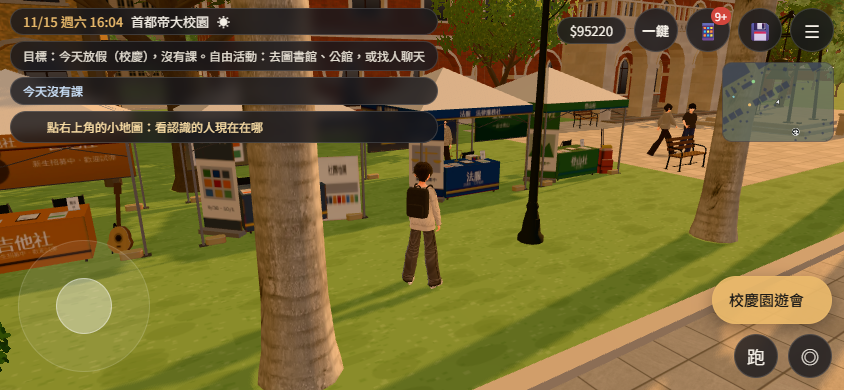
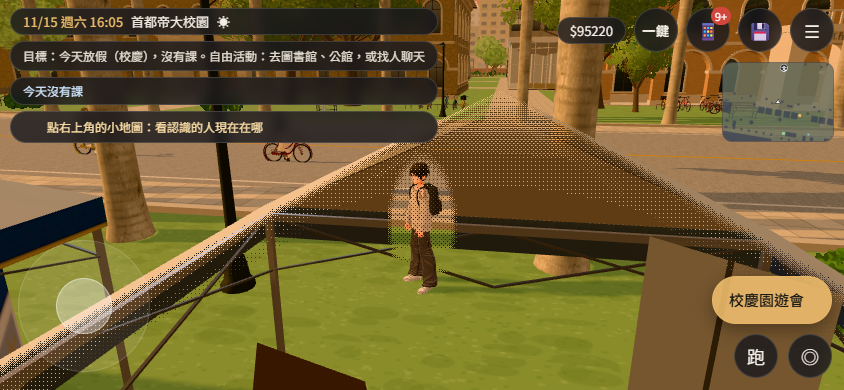
CC-local: X295E_fair_keep_fix result (sha 8d8b475dc3a6b3546853a98fc24b60edb7829989, exit 0, 139s)

diff --git a/docs/story_planning/CC/local_out/summary.md b/docs/story_planning/CC/local_out/summary.md
@@ -3020,3 +3020,5 @@ fatal: 'C:/Users/USER/Documents/wt_cc_R8_rr2' already exists    [ 135.3s] main_p
       err.log (last 5): �t�Χ䤣����w�����|�C | [gpu_wrap 4.1s] WEBGL_RENDERER: ANGLE (AMD, AMD Radeon RX 6600M (0x000073FF) Direct3D11 vs_5_0 ps_5_0, D3D11) | Google Inc. (AMD) | [gpu_wrap 81.8s] page close url=http://127.0.0.1:8800/index.html | [gpu_wrap 81.8s] BROWSER DISCONNECTED
 - 2026-11-10T21:27:38  GLASSDIAG_v2b  sha=be84c86807aa45324daed407996770feb6dbba13  exit=0  144s      [  79.0s]   {"mesh": "by_glass", "parent": "campus_boya", "vis": true, "mat": "ck_glass", "transparent": false, "opacity": 1, "emissiveI": 1, "nightI": 1, "uDay": 0, "hasDivA": true, "skyMin": [-47.05, 0, -74.72], "skyMax": [-28.95, 4.3, -74.52], "geoMin": [-54.85, 0.05, -85.5], "geoMax": [-21.16, 20.6, -74.15], "overlap": 0.002, "overlapXYZ": [18.1, 4.25, 0.2], "worldMin": [-54.85, 0.05, -85.5], "worldMax": [-21.16, 20.6, -74.15], "cacheKey": "function(sh,r){ if(prev) prev.call(this,sh,r); Object.assign(sh.uniforms,{uSkyDay:U.uDay,uSkyDivA:U.uDivA,uSkyMin:U.uMin,uSkyMax:U.uMax,uSkyCol:U.uCol});\n        sh.vertexShader='varying vec3 vSkyP;\\n'+sh.vertexShader.replace('#include <begin_vertex>','#include <begin_vertex>\\n  vSkyP=position;');\n        sh.fragmentShader='uniform float uSkyDay, uSkyDivA;\\nuniform vec3 uSkyMin, uSkyMax, uSkyCol;\\nvarying vec3 vSkyP;\\n'+sh.fragmentShader.replace('#include <dithering_fragment>','#include <dithering_fragment>\\n'+\n          '  if(uSkyDay>0.0&&all(greaterThanEqual(vSkyP,uSkyMin))&&all(lessThanEqual(vSkyP,uSkyMax))){\\n    float skyF=uSkyDay;\\n'+\n          '    #ifdef USE_FOG\\n    skyF*=1.0-fogFactor;\\n    #endif\\n    #ifdef PREMULTIPLIED_ALPHA\\n    gl_FragColor.rgb+=uSkyCol*skyF;\\n    #else\\n    gl_FragColor.rgb+=uSkyCol*skyF/mix(1.0,max(gl_FragColor.a,0.05),uSkyDivA);\\n    #endif\\n  }'); }|glassSky", "onBR": true, "needsUpdate": 1} / PASS 沒有 JS 例外  [] / ALL PASS
       err.log (last 5): �t�Χ䤣����w�����|�C | [gpu_wrap 4.2s] WEBGL_RENDERER: ANGLE (AMD, AMD Radeon RX 6600M (0x000073FF) Direct3D11 vs_5_0 ps_5_0, D3D11) | Google Inc. (AMD) | [gpu_wrap 79.8s] page close url=http://127.0.0.1:8802/index.html | [gpu_wrap 79.8s] BROWSER DISCONNECTED
+- 2026-11-10T21:29:26  X295E_fair_keep_fix  sha=8d8b475dc3a6b3546853a98fc24b60edb7829989  exit=0  139s    PASS [園遊會] 園遊會的旁白（第 1 句）出現、共三句  ["（攤位從校門一路排到總圖前面。法律系的攤子在賣檸檬愛玉，學長在旁邊幫人看租屋契約。）", "（吉他社的攤位前圍了一圈人。中間有人在唱，唱到一半忘詞，大家幫他接下去。）", "（你買了一杯紅茶，走到總圖前面才發現吸管沒拿。）"] / PASS 沒有 JS 例外  [] / ALL PASS
+      err.log (last 5): �t�Χ䤣����w�����|�C | [gpu_wrap 4.3s] WEBGL_RENDERER: ANGLE (AMD, AMD Radeon RX 6600M (0x000073FF) Direct3D11 vs_5_0 ps_5_0, D3D11) | Google Inc. (AMD) | [gpu_wrap 98.0s] page close url=http://127.0.0.1:8800/index.html | [gpu_wrap 98.1s] BROWSER DISCONNECTED
